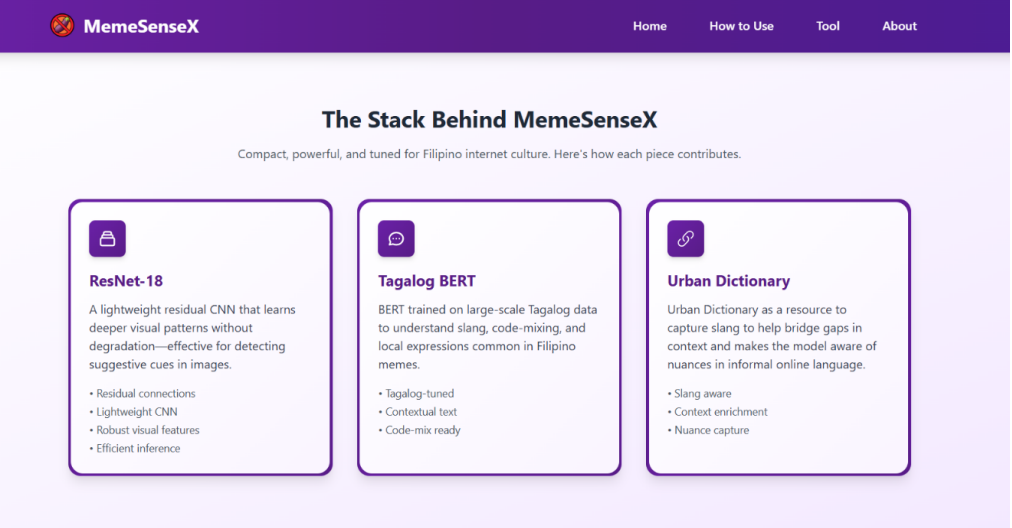
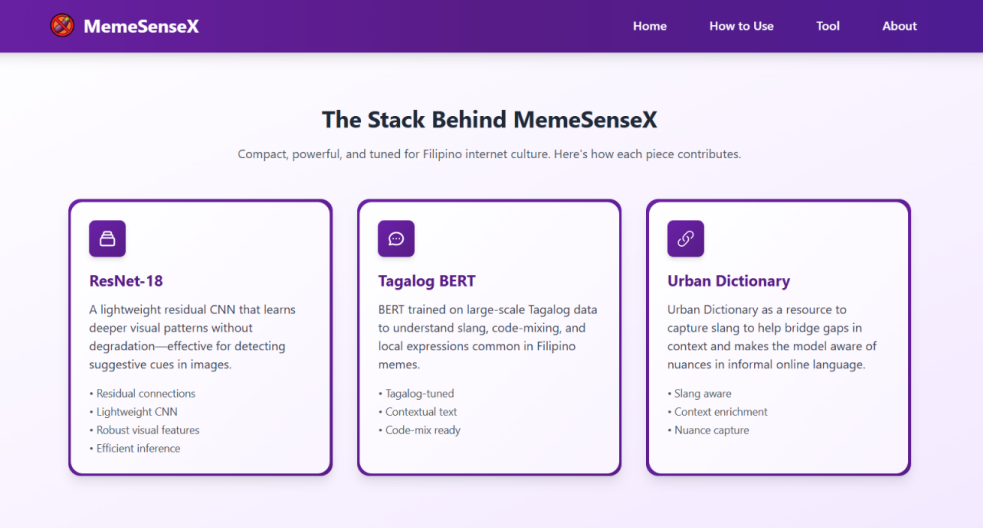
added project info

diff --git a/index.html b/index.html
@@ -154,69 +154,64 @@
         <button class="carousel-btn" id="proj-prev">&#8592;</button>
         <div class="proj-track-outer">
           <div class="proj-track" id="proj-slides">
-            <div class="project-wrapper" data-url="https://github.com/youruser/memesensex">
+            <div class="project-wrapper" data-url="https://github.com/chynnadoria/memesensex">
               <div class="proj-card">
                 <div class="proj-card-img" style="background-image:url('projects/msx.PNG');"></div>
                 <div class="proj-card-overlay">
-                  <p class="proj-card-desc">A meme classification web app built with TensorFlow and Flask.</p>
+                  <p class="proj-card-desc">Developed a cross-attention multimodal deep learning model that fuses ResNet-18 image features and Tagalog-BERT text embeddings to detect sexual content in Tagalog memes, outperforming unimodal baselines in F1-score and AUC-ROC.</p>
                   <span class="proj-card-link">View on GitHub ↗</span>
                 </div>
               </div>
               <div class="proj-card-meta">
                 <span class="proj-card-title">MemeSenseX</span>
-                <span class="proj-card-tag">ML · Web App</span>
               </div>
             </div>
-            <div class="project-wrapper" data-url="https://github.com/youruser/project2">
+            <div class="project-wrapper" data-url="https://github.com/chynnadoria/mbert_multilabel_taglish_hate_speech_detection">
               <div class="proj-card">
-                <div class="proj-card-img" style="background-image:url('projects/project2.png');"></div>
+                <div class="proj-card-img" style="background-image:url('projects/hate.png');"></div>
                 <div class="proj-card-overlay">
-                  <p class="proj-card-desc">Description for project two.</p>
+                  <p class="proj-card-desc">Developed a multilabel text classification model using mBERT to identify overlapping hate speech categories in code-mixed Taglish, leveraging Jaccard contrastive loss to improve correlation awareness and classification accuracy. </p>
                   <span class="proj-card-link">View on GitHub ↗</span>
                 </div>
               </div>
               <div class="proj-card-meta">
-                <span class="proj-card-title">Project Two</span>
-                <span class="proj-card-tag">Data · Analytics</span>
+                <span class="proj-card-title">Multilabel Taglish Hate Speech Detection</span>
               </div>
             </div>
-            <div class="project-wrapper" data-url="https://github.com/youruser/project3">
+            <div class="project-wrapper" data-url="https://github.com/chynnadoria/PUP-kiosk">
               <div class="proj-card">
-                <div class="proj-card-img" style="background-image:url('projects/project3.png');"></div>
+                <div class="proj-card-img" style="background-image:url('projects/kiosk.PNG');"></div>
                 <div class="proj-card-overlay">
-                  <p class="proj-card-desc">Description for project three.</p>
+                  <p class="proj-card-desc">Created an interactive campus kiosk web-based map using HTML, CSS, and JavaScript, enabling hover-based information display for enhanced user navigation.</p>
                   <span class="proj-card-link">View on GitHub ↗</span>
                 </div>
               </div>
               <div class="proj-card-meta">
-                <span class="proj-card-title">Project Three</span>
-                <span class="proj-card-tag">Web · API</span>
+                <span class="proj-card-title">Polytechnic University of the Philippines Kiosk</span>
               </div>
             </div>
-            <div class="project-wrapper" data-url="https://github.com/youruser/project4">
+            <div class="project-wrapper" data-url="https://github.com/chynnadoria/quiz-master">
               <div class="proj-card">
-                <div class="proj-card-img" style="background-image:url('projects/project4.png');"></div>
+                <div class="proj-card-img" style="background-image:url('projects/quiz.PNG');"></div>
                 <div class="proj-card-overlay">
-                  <p class="proj-card-desc">Description for project four.</p>
+                  <p class="proj-card-desc">Developed a web-based quiz application using HTML, CSS, JavaScript, and PHP, with AJAX for dynamic content updates and MySQL for storing questions and answers. </p>
                   <span class="proj-card-link">View on GitHub ↗</span>
                 </div>
               </div>
               <div class="proj-card-meta">
-                <span class="proj-card-title">Project Four</span>
-                <span class="proj-card-tag">ML · Research</span>
+                <span class="proj-card-title">Quiz Master</span>
               </div>
             </div>
-            <div class="project-wrapper" data-url="https://github.com/youruser/project5">
+            <div class="project-wrapper" data-url="https://github.com/chynnadoria/naive-bayes-classifier">
               <div class="proj-card">
-                <div class="proj-card-img" style="background-image:url('projects/project5.png');"></div>
+                <div class="proj-card-img" style="background-image:url('projects/naive.PNG');"></div>
                 <div class="proj-card-overlay">
-                  <p class="proj-card-desc">Description for project five.</p>
+                  <p class="proj-card-desc">Built a spam detection system using the TREC06p-CS280 dataset and the Naive Bayes algorithm, applying text preprocessing steps namely tokenization and stop word removal to classify emails as spam or non-spam.</p>
                   <span class="proj-card-link">View on GitHub ↗</span>
                 </div>
               </div>
               <div class="proj-card-meta">
-                <span class="proj-card-title">Project Five</span>
-                <span class="proj-card-tag">Data · Visualization</span>
+                <span class="proj-card-title">Spam Email Detection using Naive Bayes</span>
               </div>
             </div>
           </div>

diff --git a/style.css b/style.css
@@ -366,14 +366,9 @@ section {
   font-size: 14px;
   font-weight: 700;
   color: var(--white);
-  letter-spacing: 0.04em;
-}
-.proj-card-tag {
-  font-family: 'Space Mono', monospace;
-  font-size: 10px;
-  letter-spacing: 0.12em;
-  text-transform: uppercase;
-  color: var(--mid-gray);
+  letter-spacing: 0.15em;
+  text-align: center;
+  width: 100%;
 }
 
 /* ── CERT & DASHBOARD CAROUSEL ── */
@@ -497,7 +492,6 @@ section {
 }
 .lightbox-close:hover { border-color: var(--white); background: rgba(255,255,255,0.08); }
 
-/* center project/cert/dash cards only — titles stay left-aligned */
 #projects .sub-section { width: 100%; }
 .proj-carousel-wrap,
 .card-carousel-wrap { margin: 0 auto; }
